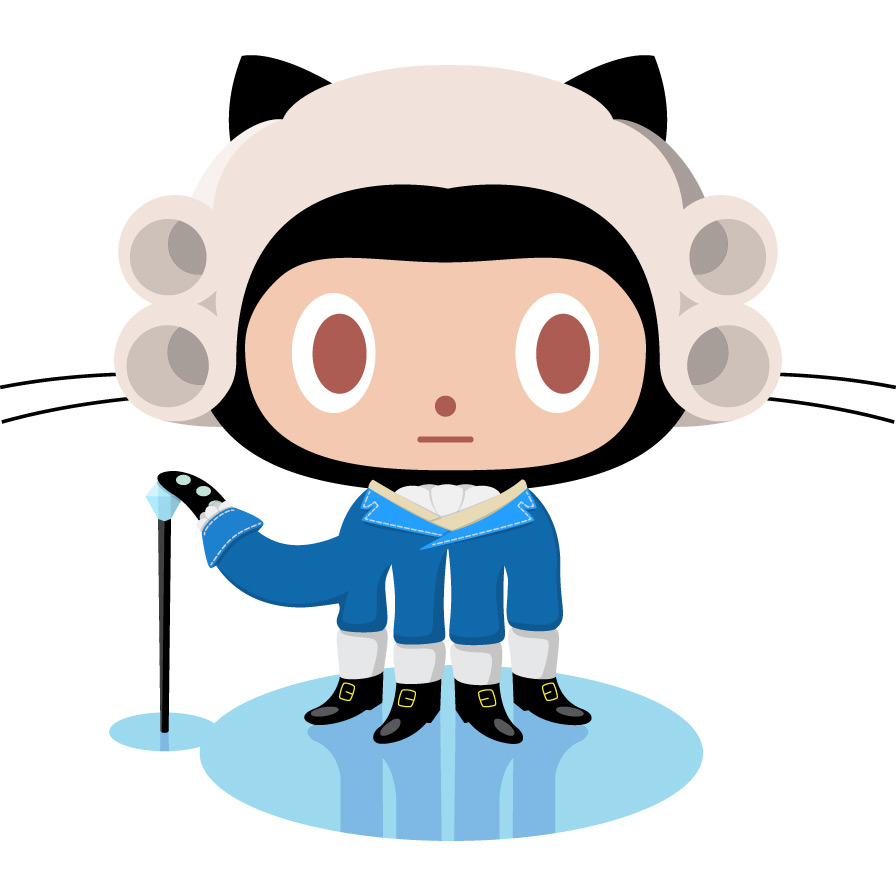
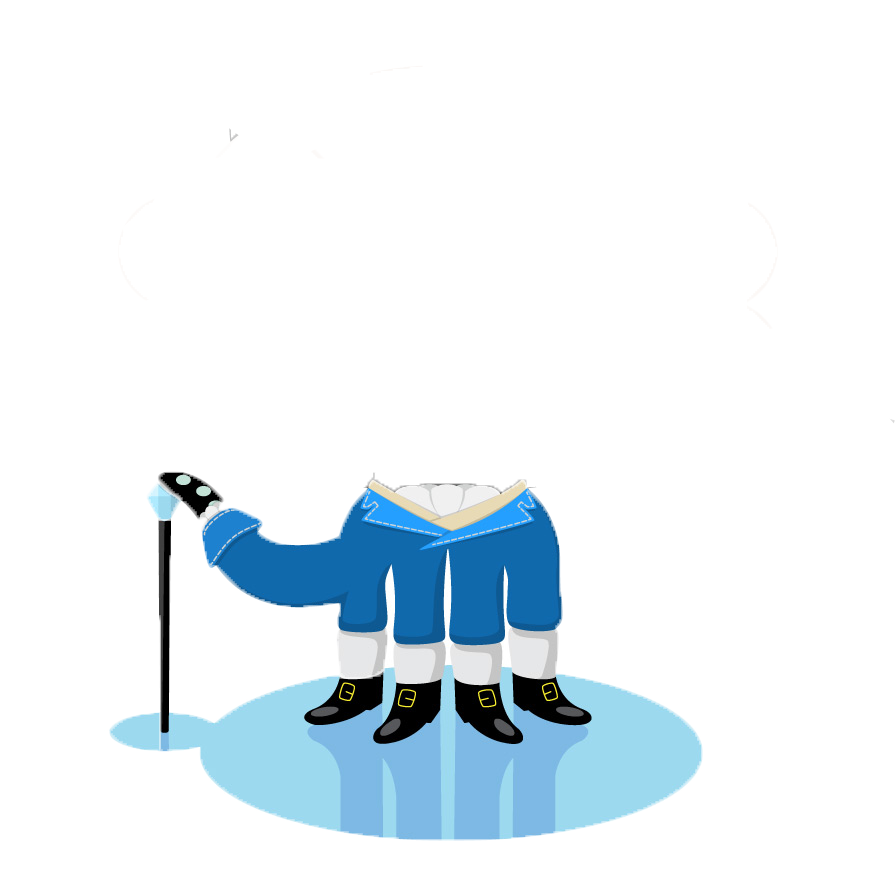
attempting to work out a normalizeBackground function

diff --git a/app/views/main.html b/app/views/main.html
@@ -1,6 +1,6 @@
 <div ng-controller="emilyChristmasController">
 
-  <section class="emily">
+  <section class="emily" ng-style="normalizeBackground({{background}})">
 
     <div>
       Hide this form upon submission.
@@ -9,21 +9,21 @@
 
     <h1>{{title}}</h1>
 
-    <div class="face" ng-repeat="image in faces">
+    <div class="face" ng-repeat="image in faces" id="{{image}}">
       <img ng-src="{{face}}" ng-show="itemSelected(image, 'face')">
     </div>
 
-    <div class="body" ng-repeat="image in bodies">
+    <div class="body" ng-repeat="image in bodies" id="{{image}}">
       <img ng-src="{{body}}" ng-show="itemSelected(image, 'body')">
     </div>
 
-    <div class="hat" ng-repeat="image in hats">
+    <div class="hat" ng-repeat="image in hats" id="{{image}}">
       <img ng-src="{{hat}}" ng-show="itemSelected(image, 'hat')">
     </div>
 
-    <div class="background" ng-repeat="image in backgrounds">
-      <img ng-src="{{background}}" ng-show="itemSelected(image, 'background')">
-    </div>
+  <!--   <div class="background" ng-repeat="image in backgrounds" id={{image}}>
+    <img ng-src="{{background}}" ng-show="itemSelected(image, 'background')">
+  </div> -->
 
     <div class="screenshot">
       <button>

diff --git a/app/styles/main.scss b/app/styles/main.scss
@@ -3,6 +3,15 @@ $icon-font-path: "../bower_components/bootstrap-sass-official/assets/fonts/boots
 @import "bootstrap-sass-official/assets/stylesheets/_bootstrap.scss";
 // endbower
 
+.emily {
+  background-image: url("/images/north_pole.png");
+  background-repeat: no-repeat;
+
+  
+
+}
+
+
 .browsehappy {
   margin: 0.2em 0;
   background: #ccc;
@@ -106,8 +115,4 @@ body {
   color: #fff !important;
   text-shadow: 0 -1px 0 rgba(0, 0, 0, 0.42);
   -webkit-font-smoothing: antialiased;
-}
-
-.face {
-  background-image: url("/images/emily_pic1.png");
 }

diff --git a/app/scripts/controllers/main.js b/app/scripts/controllers/main.js
@@ -53,4 +53,8 @@ angular.module('emilyChristmas2014App')
     $scope.itemSelected = function(item, group){
       return ($scope[group] === item);
     };
+    $scope.normalizeBackground= function(background){
+      return background.slice(7,-4);
+    };
+
   });
